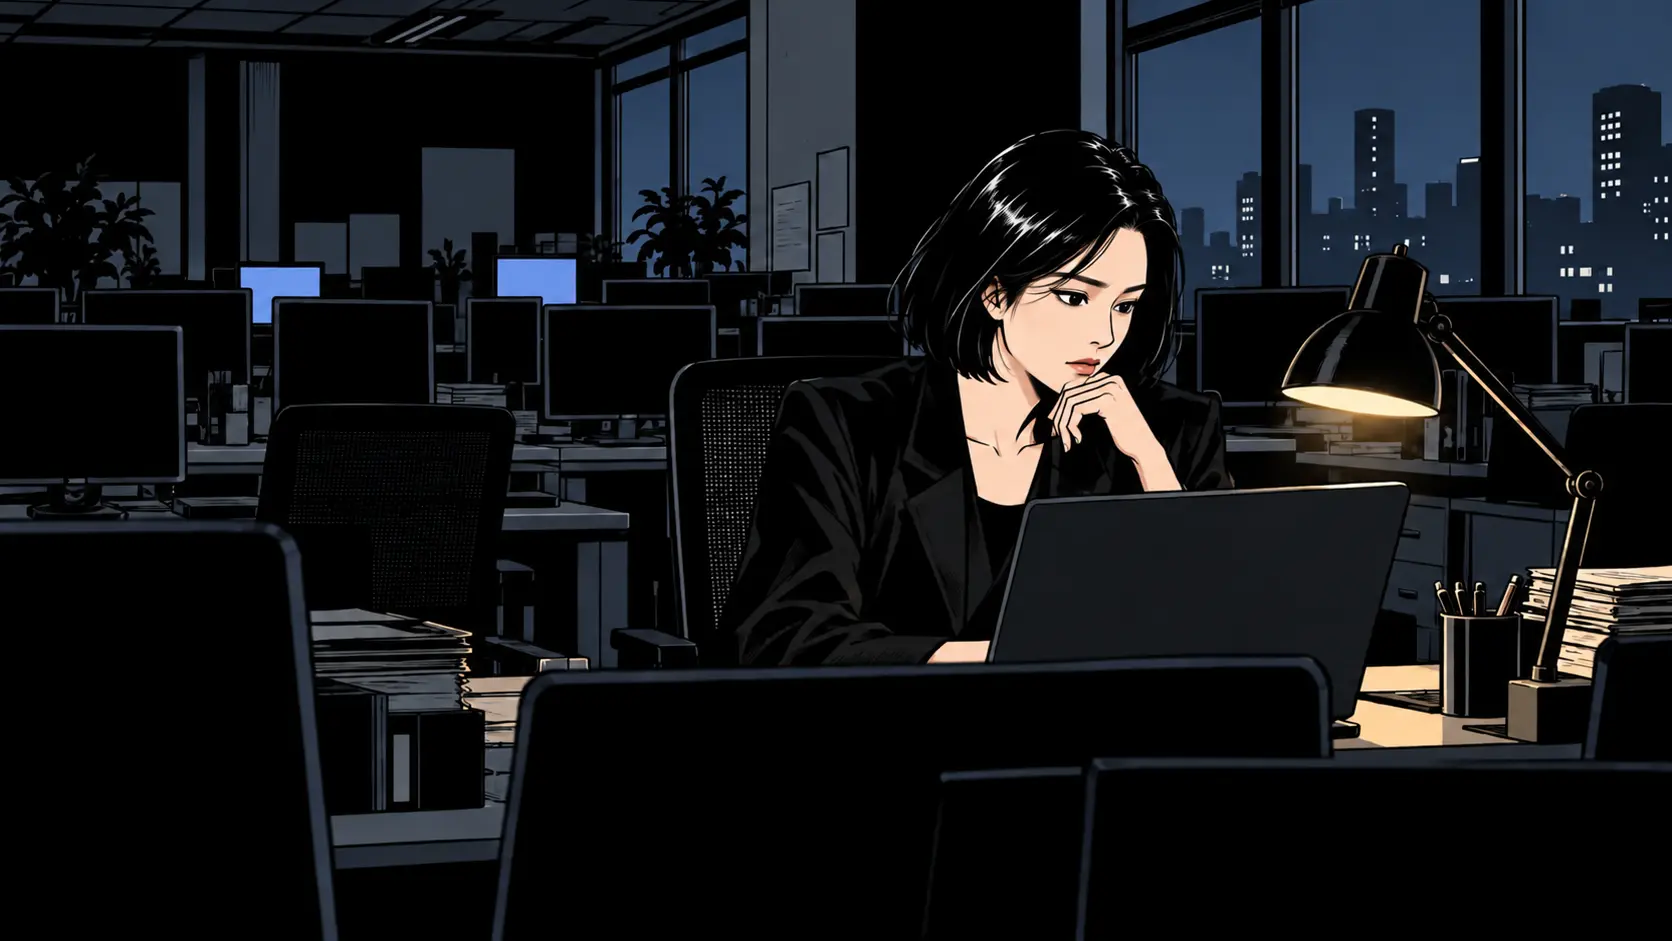
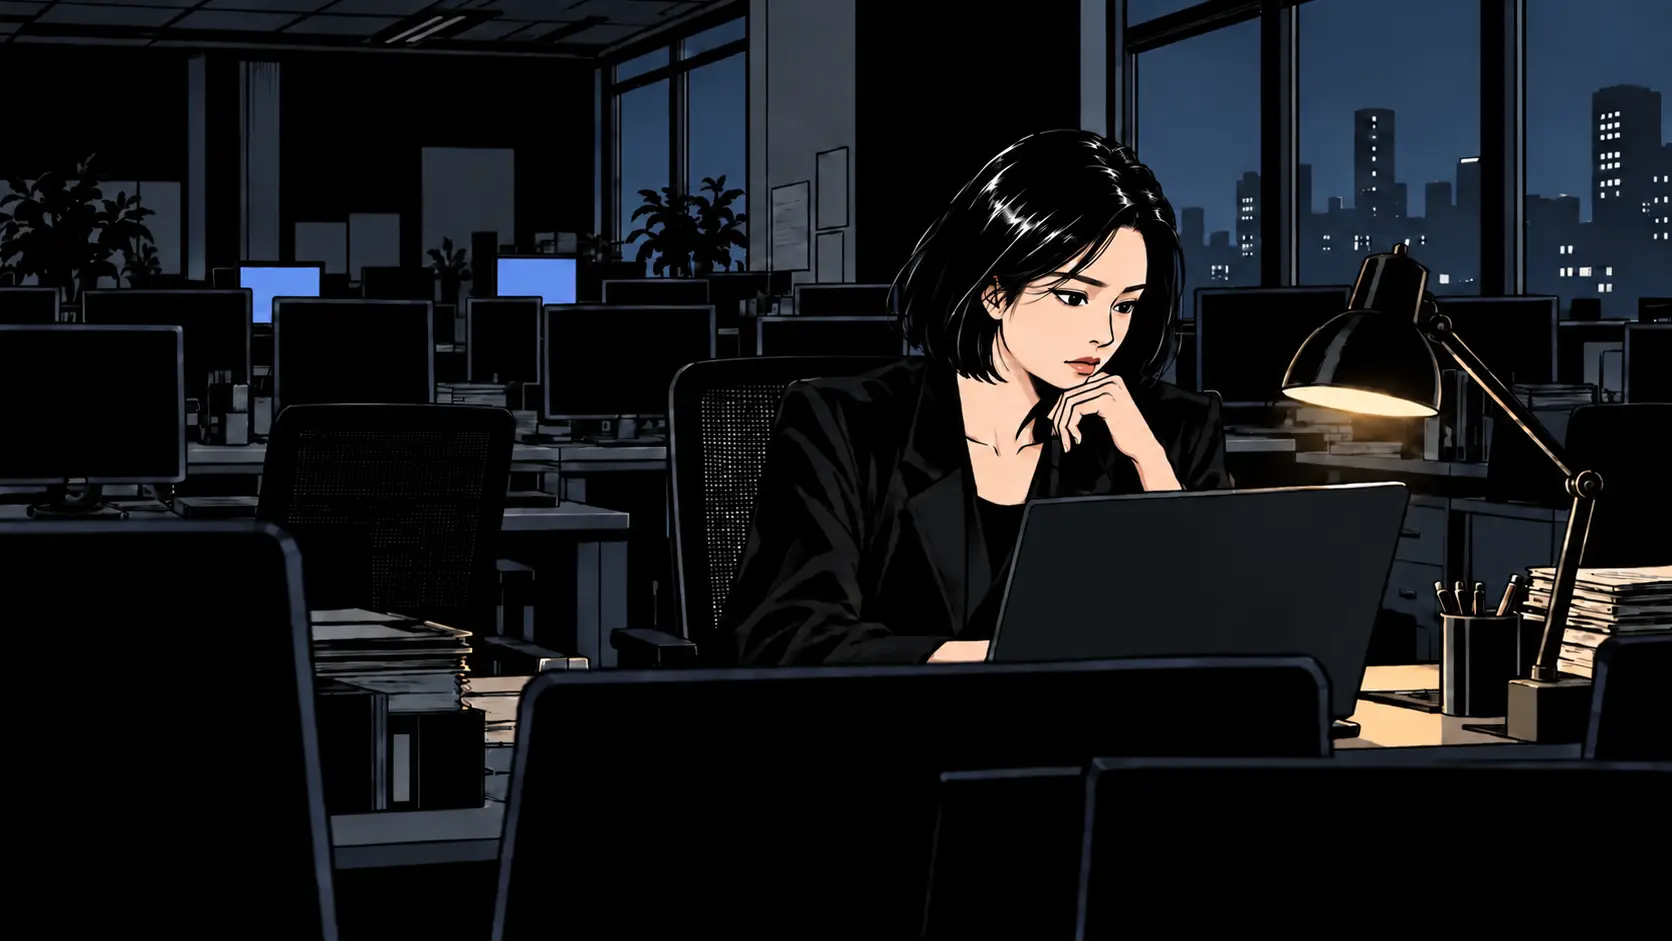
유현의 볼과 턱선을 1·2화 기준으로 통일

diff --git a/assets/illustrations/review.md b/assets/illustrations/review.md
@@ -1,6 +1,6 @@
 # 삽화 검수 기록
 
-2026-09-13. 표지, 1~16화, 공유 이미지까지 18개 파일을 직접 보고 본문의 등장인물과 대조했다. 내장 `image_gen`으로 16개 파일을 수정했다. 기존 파일명과 표시 크기를 유지했다.
+2026-09-13 1차 검수. 표지, 1~16화, 공유 이미지까지 18개 파일을 직접 보고 본문의 등장인물과 대조했다. 내장 `image_gen`으로 16개 파일을 수정했다. 기존 파일명과 표시 크기를 유지했다.
 
 공통 기준은 굵은 검은 먹선, 평면 채색, 옅은 살색 피부, 검은 머리의 선명한 하이라이트다. 낮 사무실의 흰색·회색과 밤 장면의 청회색·작은 따뜻한 조명은 각 장면의 시간대에 맞게 유지한다. 나무·옷감의 미세 질감과 부드러운 피부 명암이 두드러진 후반 장면을 초반 그림체에 가깝게 정리했다.
 
@@ -28,6 +28,39 @@
 | `share.jpg` | 유현과 영선 얼굴 보정. 제목과 두 줄 소개 문구 유지. |
 
 회차와 표지는 1672×941 WebP, 공유 이미지는 1200×630 JPEG다. 원본 생성 결과를 확인한 뒤 크기를 맞추고 해당 형식으로 저장했다. 실제 전송한 수정 프롬프트와 선택한 생성 원본은 `prompts.json`에 기록했다.
+
+## 피부톤·유현 턱선 재검수
+
+2026-09-13 추가 요청에 따라 18개 파일을 다시 비교했다. **유현의 얼굴 윤곽 기준은 1·2화로 고정한다.** 앞선 14화 확대 보정은 수정 이력이며, 이후 장면의 기준 이미지로 사용하지 않는다. 1·2화 파일은 이번 검수에서 변경하지 않았다.
+
+전체 장면과 얼굴 확대 이미지를 육안 비교하고, 선·머리카락을 제외한 일부 밝은 피부 영역의 RGB 중앙값을 보조로 확인했다. 피부는 대체로 옅은 복숭아색 계열이다. 8화 가게 안의 어두운 따뜻한 색과 11화 스탠드 아래의 노란 기는 조명에 따른 차이로 판단하여 유지했다. 표본 위치와 명암에 따라 값이 달라지므로 모든 피부를 단일 RGB로 맞추는 기준으로 사용하지 않았다.
+
+| 파일 | 피부톤 판단 | 유현의 볼·턱 윤곽 및 조치 |
+|---|---|---|
+| `cover.webp` | 옅은 따뜻한 살색, 가게 조명과 조화 | 작은 얼굴의 둥근 턱 유지 |
+| `ep1.webp` | 기준의 옅은 복숭아색 | 승인된 얼굴 기준, 유지 |
+| `ep2.webp` | 1화와 유사한 밝은 복숭아색 | 승인된 얼굴 기준, 유지 |
+| `ep3.webp` | 기준과 유사 | 추가 피드백 반영: 손 옆에 드러난 곧은 볼선을 완화하고 아래 볼의 볼륨 보강 |
+| `ep4.webp` | 밝은 저채도 살색 | 유현 미등장, 유지 |
+| `ep5.webp` | 가게 조명 아래 밝은 살색 | 작은 얼굴과 손의 가림을 고려, 유지 |
+| `ep6.webp` | 얼굴·목·팔이 옅은 살색으로 이어짐 | 좁은 턱끝을 넓히고 아래 볼을 조금 채워 보정 |
+| `ep7.webp` | 밝은 베이지·복숭아색 | 유현 미등장, 유지 |
+| `ep8.webp` | 다른 장면보다 어둡고 따뜻하나 실내 조명과 부합 | 원거리 옆얼굴이라 정밀 판단 제한, 유지 |
+| `ep9.webp` | 국소 조명 아래 밝고 따뜻한 살색 | 유현 미등장, 유지 |
+| `ep10.webp` | 어두운 버스 안의 낮아진 밝기와 부합 | 추가 피드백 반영: 귀 아래부터 손까지 내려오는 턱선을 완만한 곡선으로 확대 보정 |
+| `ep11.webp` | 스탠드 아래 노란 기가 있으나 주변 조명과 부합 | 유현 미등장, 유지 |
+| `ep12.webp` | 얼굴·팔·발이 밝은 살색 계열 | 유현 미등장, 유지 |
+| `ep13.webp` | 국소 조명 아래 옅은 복숭아색 | 추가 피드백 반영: 볼 아래 윤곽을 확대 보정하고 손 위의 뾰족한 턱끝을 짧고 둥글게 추가 수정 |
+| `ep14.webp` | 1·2화와 유사한 옅은 복숭아색 | 길고 가는 하관을 줄이고 볼 아래부터 둥근 턱까지 곡선을 보강 |
+| `ep15.webp` | 두 인물 모두 밝은 살색 계열 | 뒤쪽 유현의 곧게 내려가던 볼선을 완화하고 턱을 조금 짧고 둥글게 보정 |
+| `ep16.webp` | 옅은 복숭아색, 목의 그림자와 구분 | 옆얼굴의 둥근 턱끝 유지 |
+| `share.jpg` | 기준과 유사한 따뜻한 살색 | 작은 얼굴의 부드러운 윤곽 유지 |
+
+먼저 6·14·15화를 내장 `image_gen`으로 수정하고 변경 전후 얼굴을 확대 비교했다. 자연스러운 볼살을 조금 보강하되 성인 인상과 각 장면의 표정·고개 각도를 유지했다. 장면 단위로 인원, 동작, 주요 소품도 다시 확인했다. 세 파일 모두 기존 1672×941 WebP로 저장했다. 생성 편집은 픽셀 단위 보존을 보장하지 않으므로, 유지 판단은 장면 및 인물의 시각적 비교에 따른 것이다.
+
+### 3·10·13화 추가 보정
+
+사용자가 세 장의 턱선이 여전히 날카롭다고 지적하여 앞선 유지 판단을 수정했다. 손의 가림은 보이는 볼선의 차이를 그대로 둘 근거가 되지 않는다. 1·2화를 기준으로 3화의 드러난 볼선을 완화했고, 10·13화는 얼굴 확대 보정 후 전체 장면에 반영했다. 13화는 손 위로 뾰족하게 남은 턱끝을 한 번 더 짧고 둥글게 수정했다. 최종 장면과 변경 전후 얼굴을 비교하고 기존 1672×941 WebP 규격으로 저장했다. 1·2화와 이전 6·14·15화 수정은 유지했다.
 
 ## 참고 사진
 

diff --git a/README.md b/README.md
@@ -30,8 +30,8 @@ https://benelog.github.io/postmortem/
 굵은 먹선, 단순화한 인물, 평면 채색과 밝고 옅은 살색 피부톤을 사용한 극화체로 표지와 각 화의 장면을 통일했습니다.
 가게 배경은 청회색 벽과 중성 갈색 목재로 피부색과 구분하고, 조명에만 따뜻한 색을 작게 남겼습니다.
 사무실 배경은 흰색 벽, 밝은 회색 가구, 자연스러운 푸른 낮빛으로 구성했습니다.
-인물 얼굴의 기준은 유현·도경 1화, 민석 3화, 유리 4화, 영선 5화, 하늘 6화, 민서 11화입니다.
-유현은 사용자 지정 신민아 사진을 참고한 얼굴로, 볼에서 턱까지 부드러운 곡선과 둥근 턱끝을 유지합니다. 얼굴 윤곽의 확대 보정 기준은 14화입니다.
+인물 얼굴의 기준은 유현 1·2화, 도경 1화, 민석 3화, 유리 4화, 영선 5화, 하늘 6화, 민서 11화입니다.
+유현은 사용자 지정 신민아 사진을 참고한 얼굴로, 볼에서 턱까지 부드러운 곡선과 둥근 턱끝을 유지합니다. 얼굴 윤곽은 1·2화를 고정 기준으로 삼고, 광대 아래의 자연스러운 볼 볼륨과 짧고 둥근 턱을 유지합니다.
 다른 장면에서는 이 기준의 얼굴형·나이 인상·머리 모양을 유지하고 표정과 복장만 상황에 맞춥니다.
 내장 image_gen으로 생성했으며, 장면별 프롬프트는 같은 폴더의 `prompts.json`에 기록했습니다.
 전체 삽화의 검수 결과와 참고 사진 출처는 [삽화 검수 기록](assets/illustrations/review.md)에 정리했습니다.
